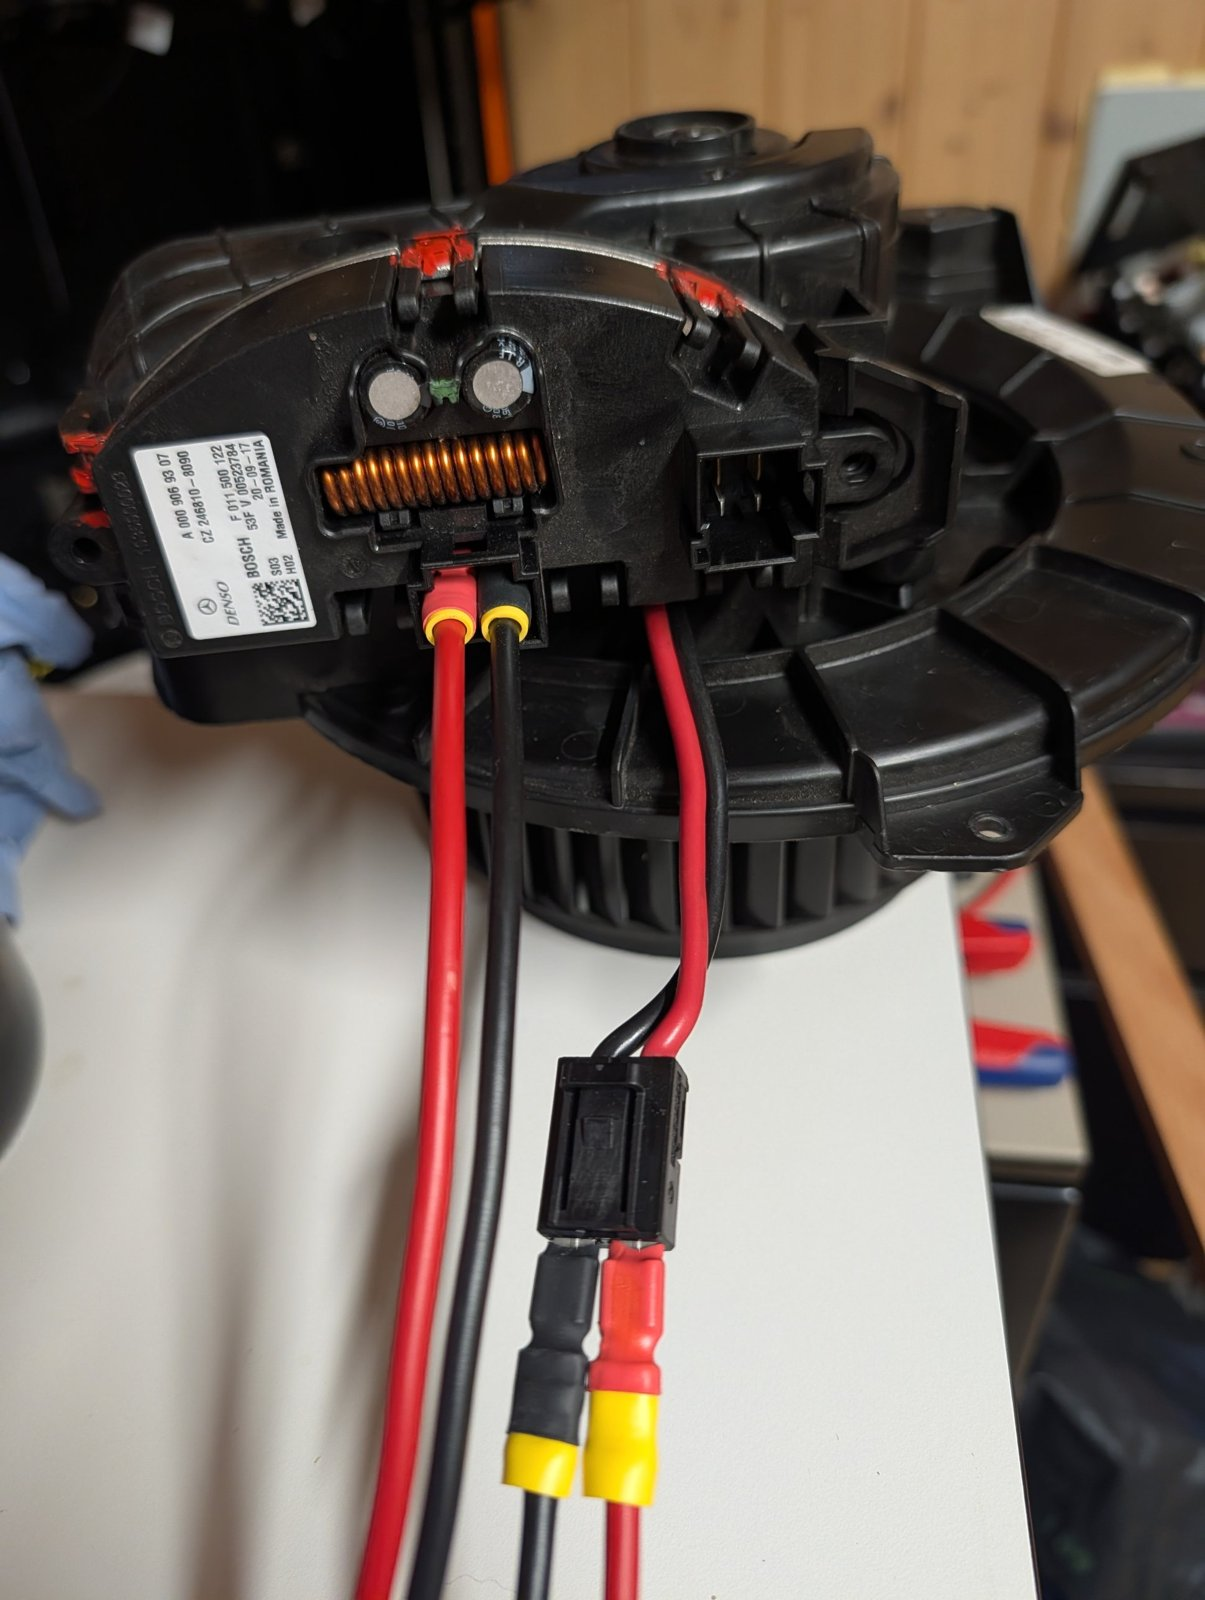
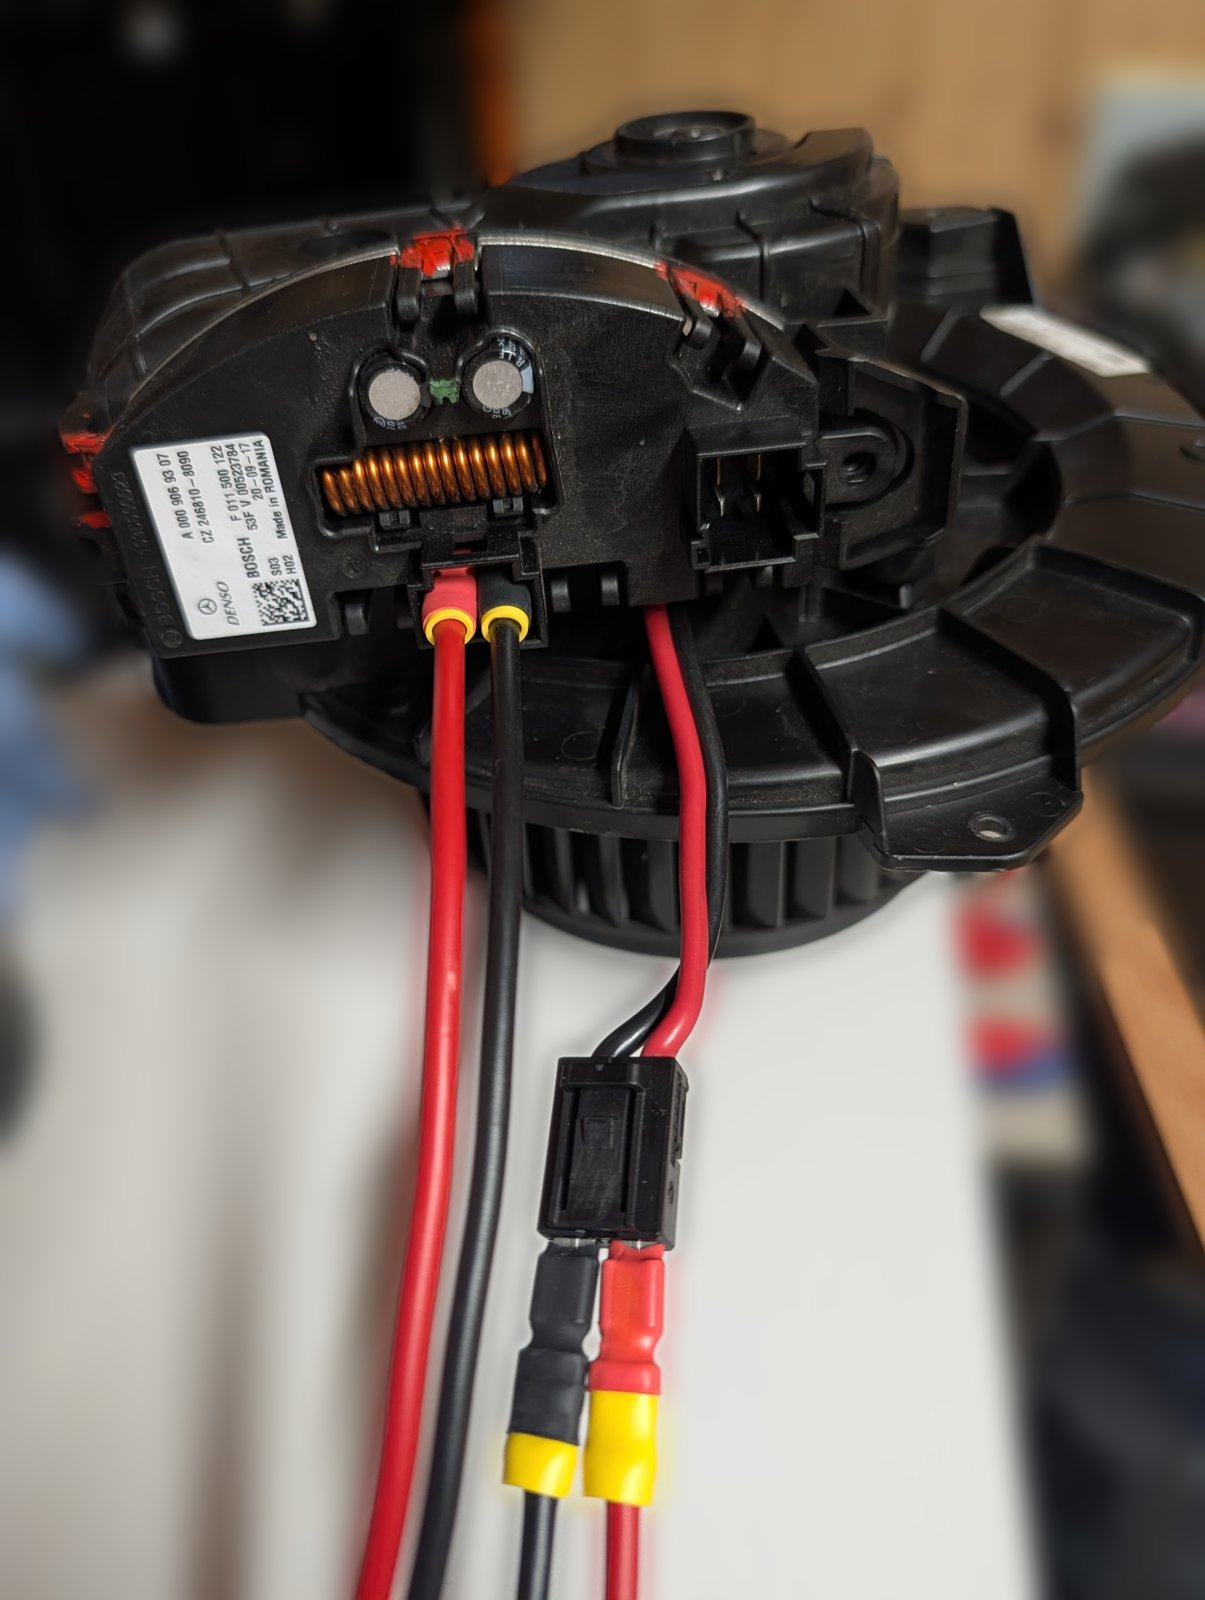
README: add assembly photos, blur photo backgrounds
Claude-Session: https://claude.ai/code/session_01QTi9Qs7L5g61Xg8GZBjdbs

diff --git a/README.md b/README.md
@@ -98,7 +98,9 @@ Both delays are `substitutions:` at the top of `relay-2ch-hvac.yaml`.
 The MD30C logic input threshold is HIGH ≥ 3 V; the ESP32's 3.3 V clears
 it, with little margin.
 
-<!-- PHOTO: controller assembly (ESP32 board + MD30C + opto module) -->
+![Controller assembly](information/assembly_input_header.jpg)
+*Assembly: MD30C on brass standoffs above the ESP32 relay board, opto
+module underneath, WAGO 221 distribution on printed brackets.*
 
 ### ESP32 board pinout
 
@@ -132,6 +134,9 @@ OEM controller and the MD30C can never share a motor lead.
 regulator (A 000 906 93 07, mounted on the blower housing) is
 intercepted and routed to the changeover relays.*
 
+![Relay terminals](information/assembly_relay_terminals.jpg)
+*Relay COM/NC/NO terminals with ring lugs, fed to the WAGO row.*
+
 ### MD30C wiring
 
 Per Cytron MD30C user's manual, Rev 1.4:
@@ -152,7 +157,10 @@ Per Cytron MD30C user's manual, Rev 1.4:
 - Above 20 A the manual recommends soldering the wires to the bottom-side
   pads rather than relying on the screw terminals alone.
 
-<!-- PHOTO: MD30C wiring detail -->
+| | |
+|---|---|
+| ![MD30C POWER terminal](information/assembly_power_terminal.jpg) | ![MD30C MOTOR terminal](information/assembly_motor_terminal.jpg) |
+| *`POWER` terminal (rear) and `INPUT` header* | *`MOTOR` terminal and relay contacts* |
 
 ### Terminal 15R input
 
@@ -178,7 +186,8 @@ boot, before GPIO27 is driven, the input may read wrong for a moment;
 this cannot engage battery mode, because relays start `ALWAYS_OFF` and
 `battery_mode_allowed` starts `false`.
 
-<!-- PHOTO: Terminal 15R tap / opto module -->
+![Opto module](information/assembly_side_opto.jpg)
+*Side view: EL817 opto module for Terminal 15R below the stack.*
 
 ### Power supply
 
